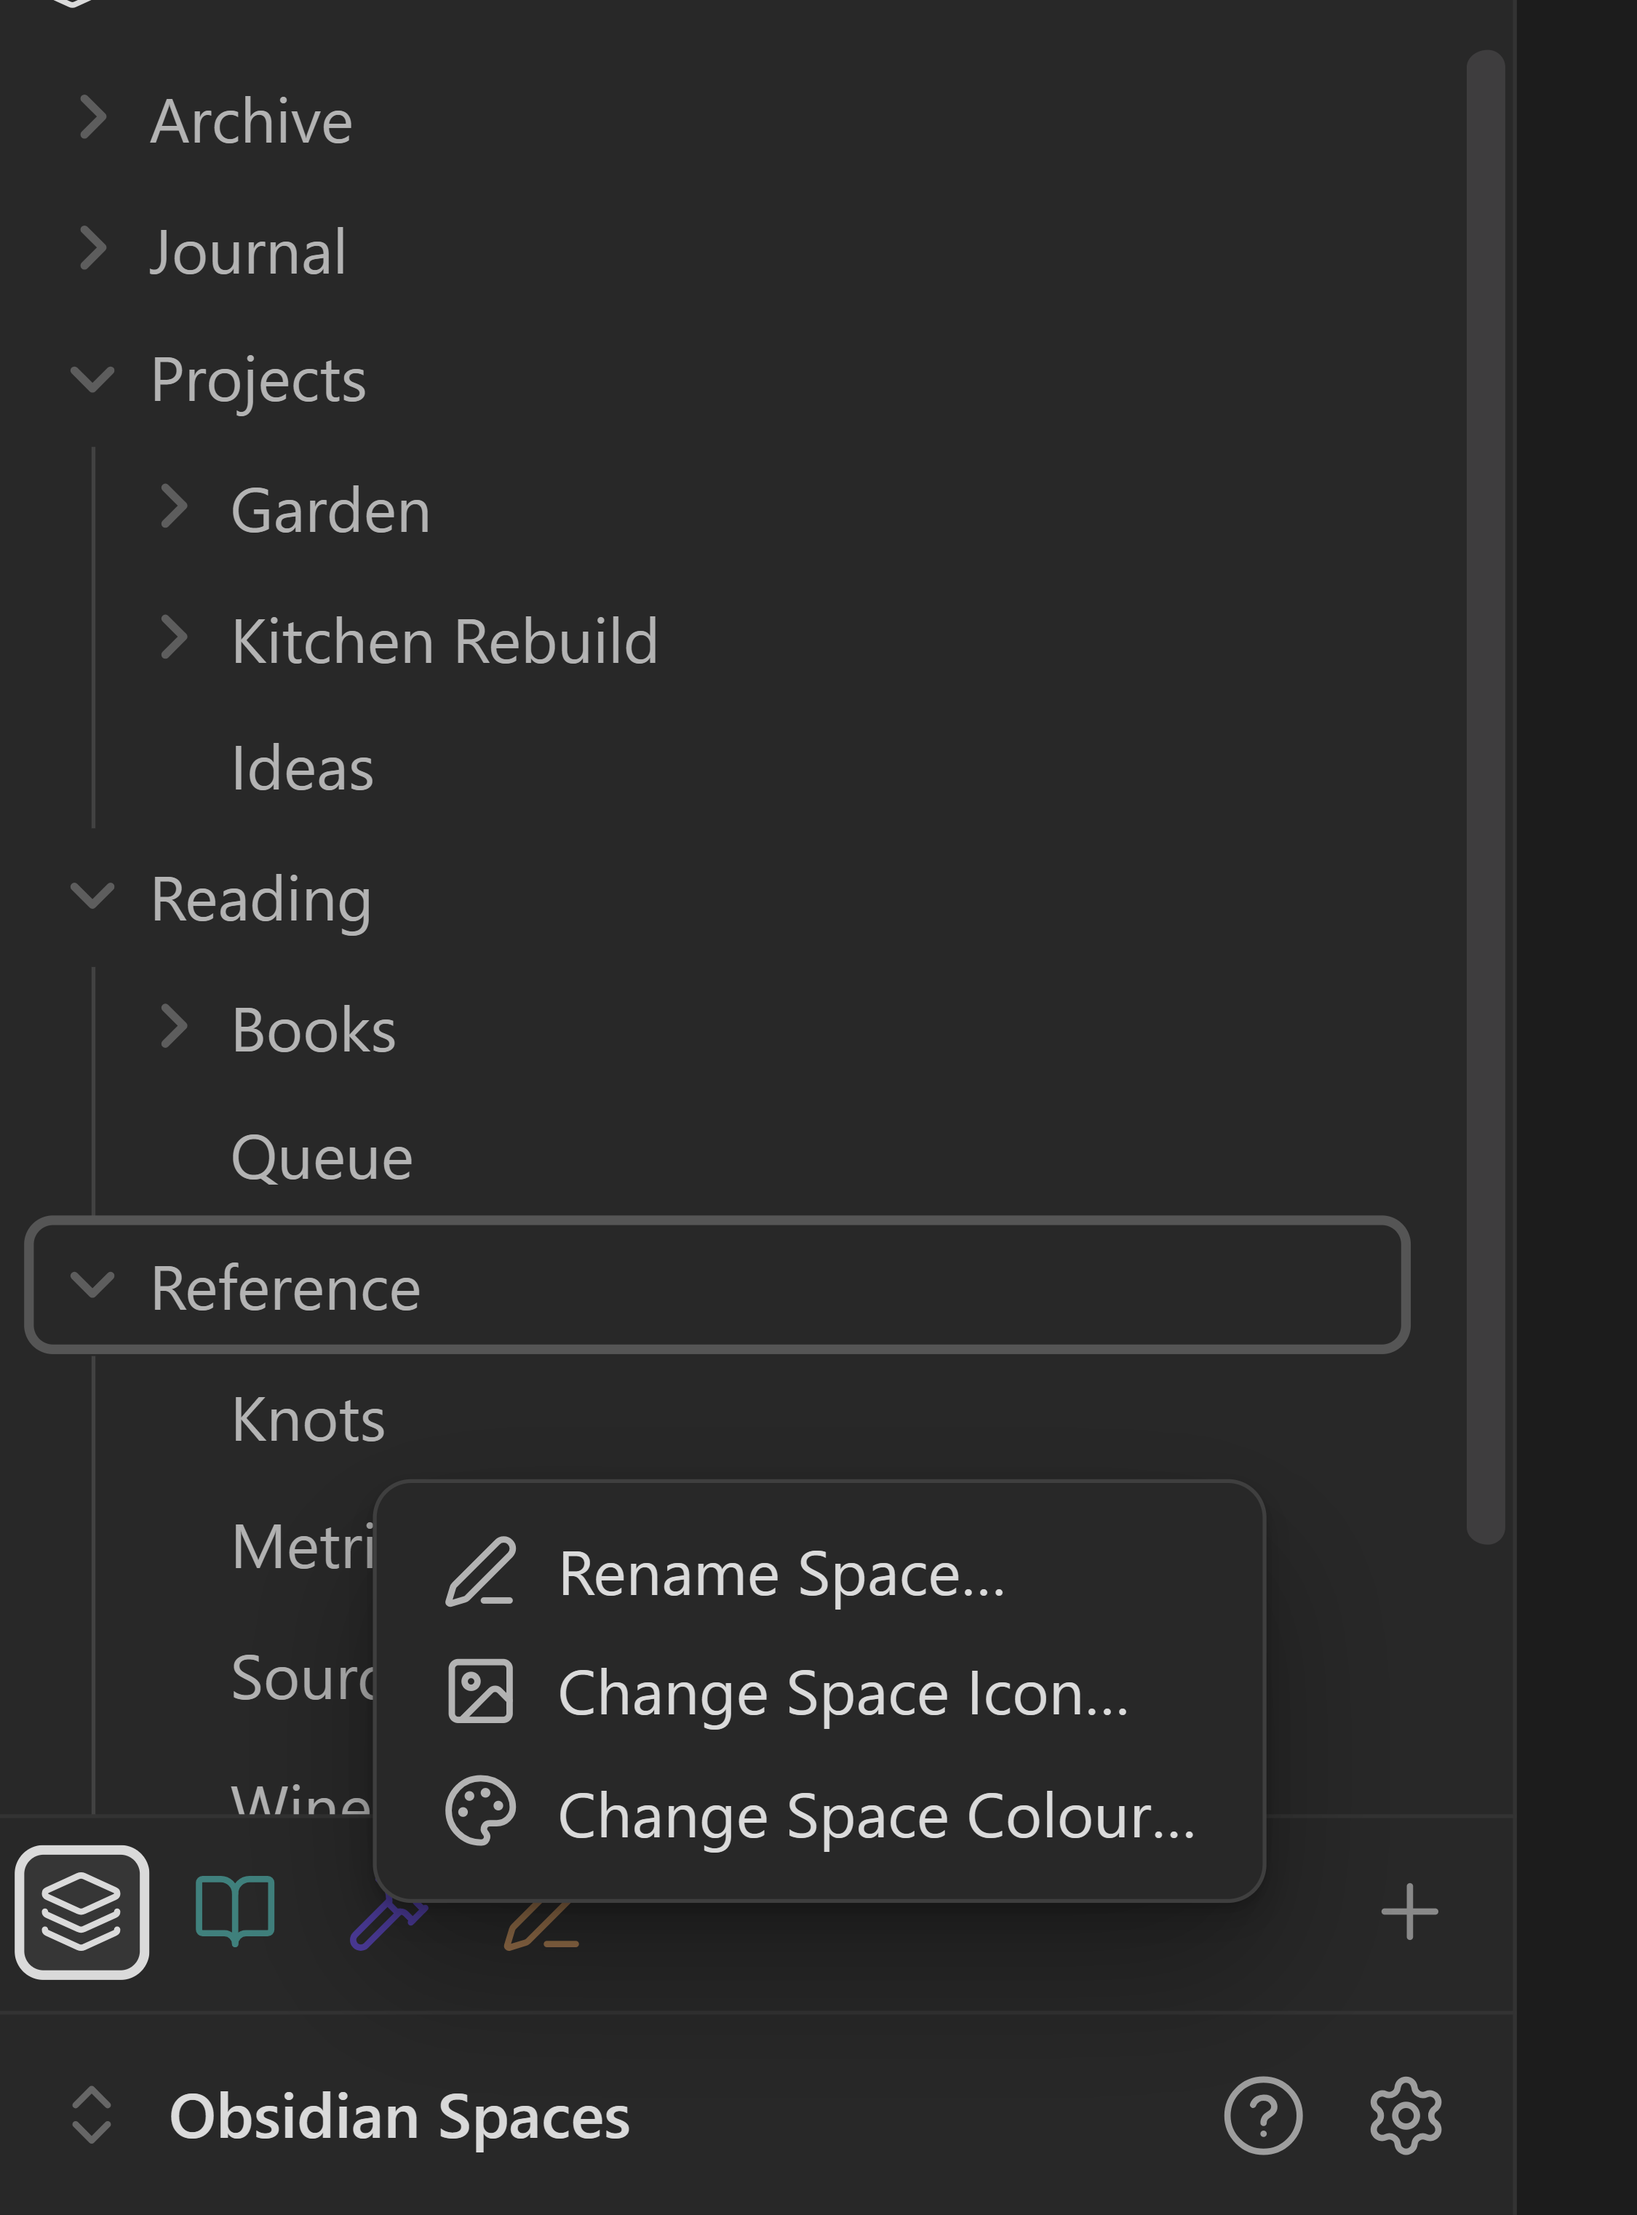
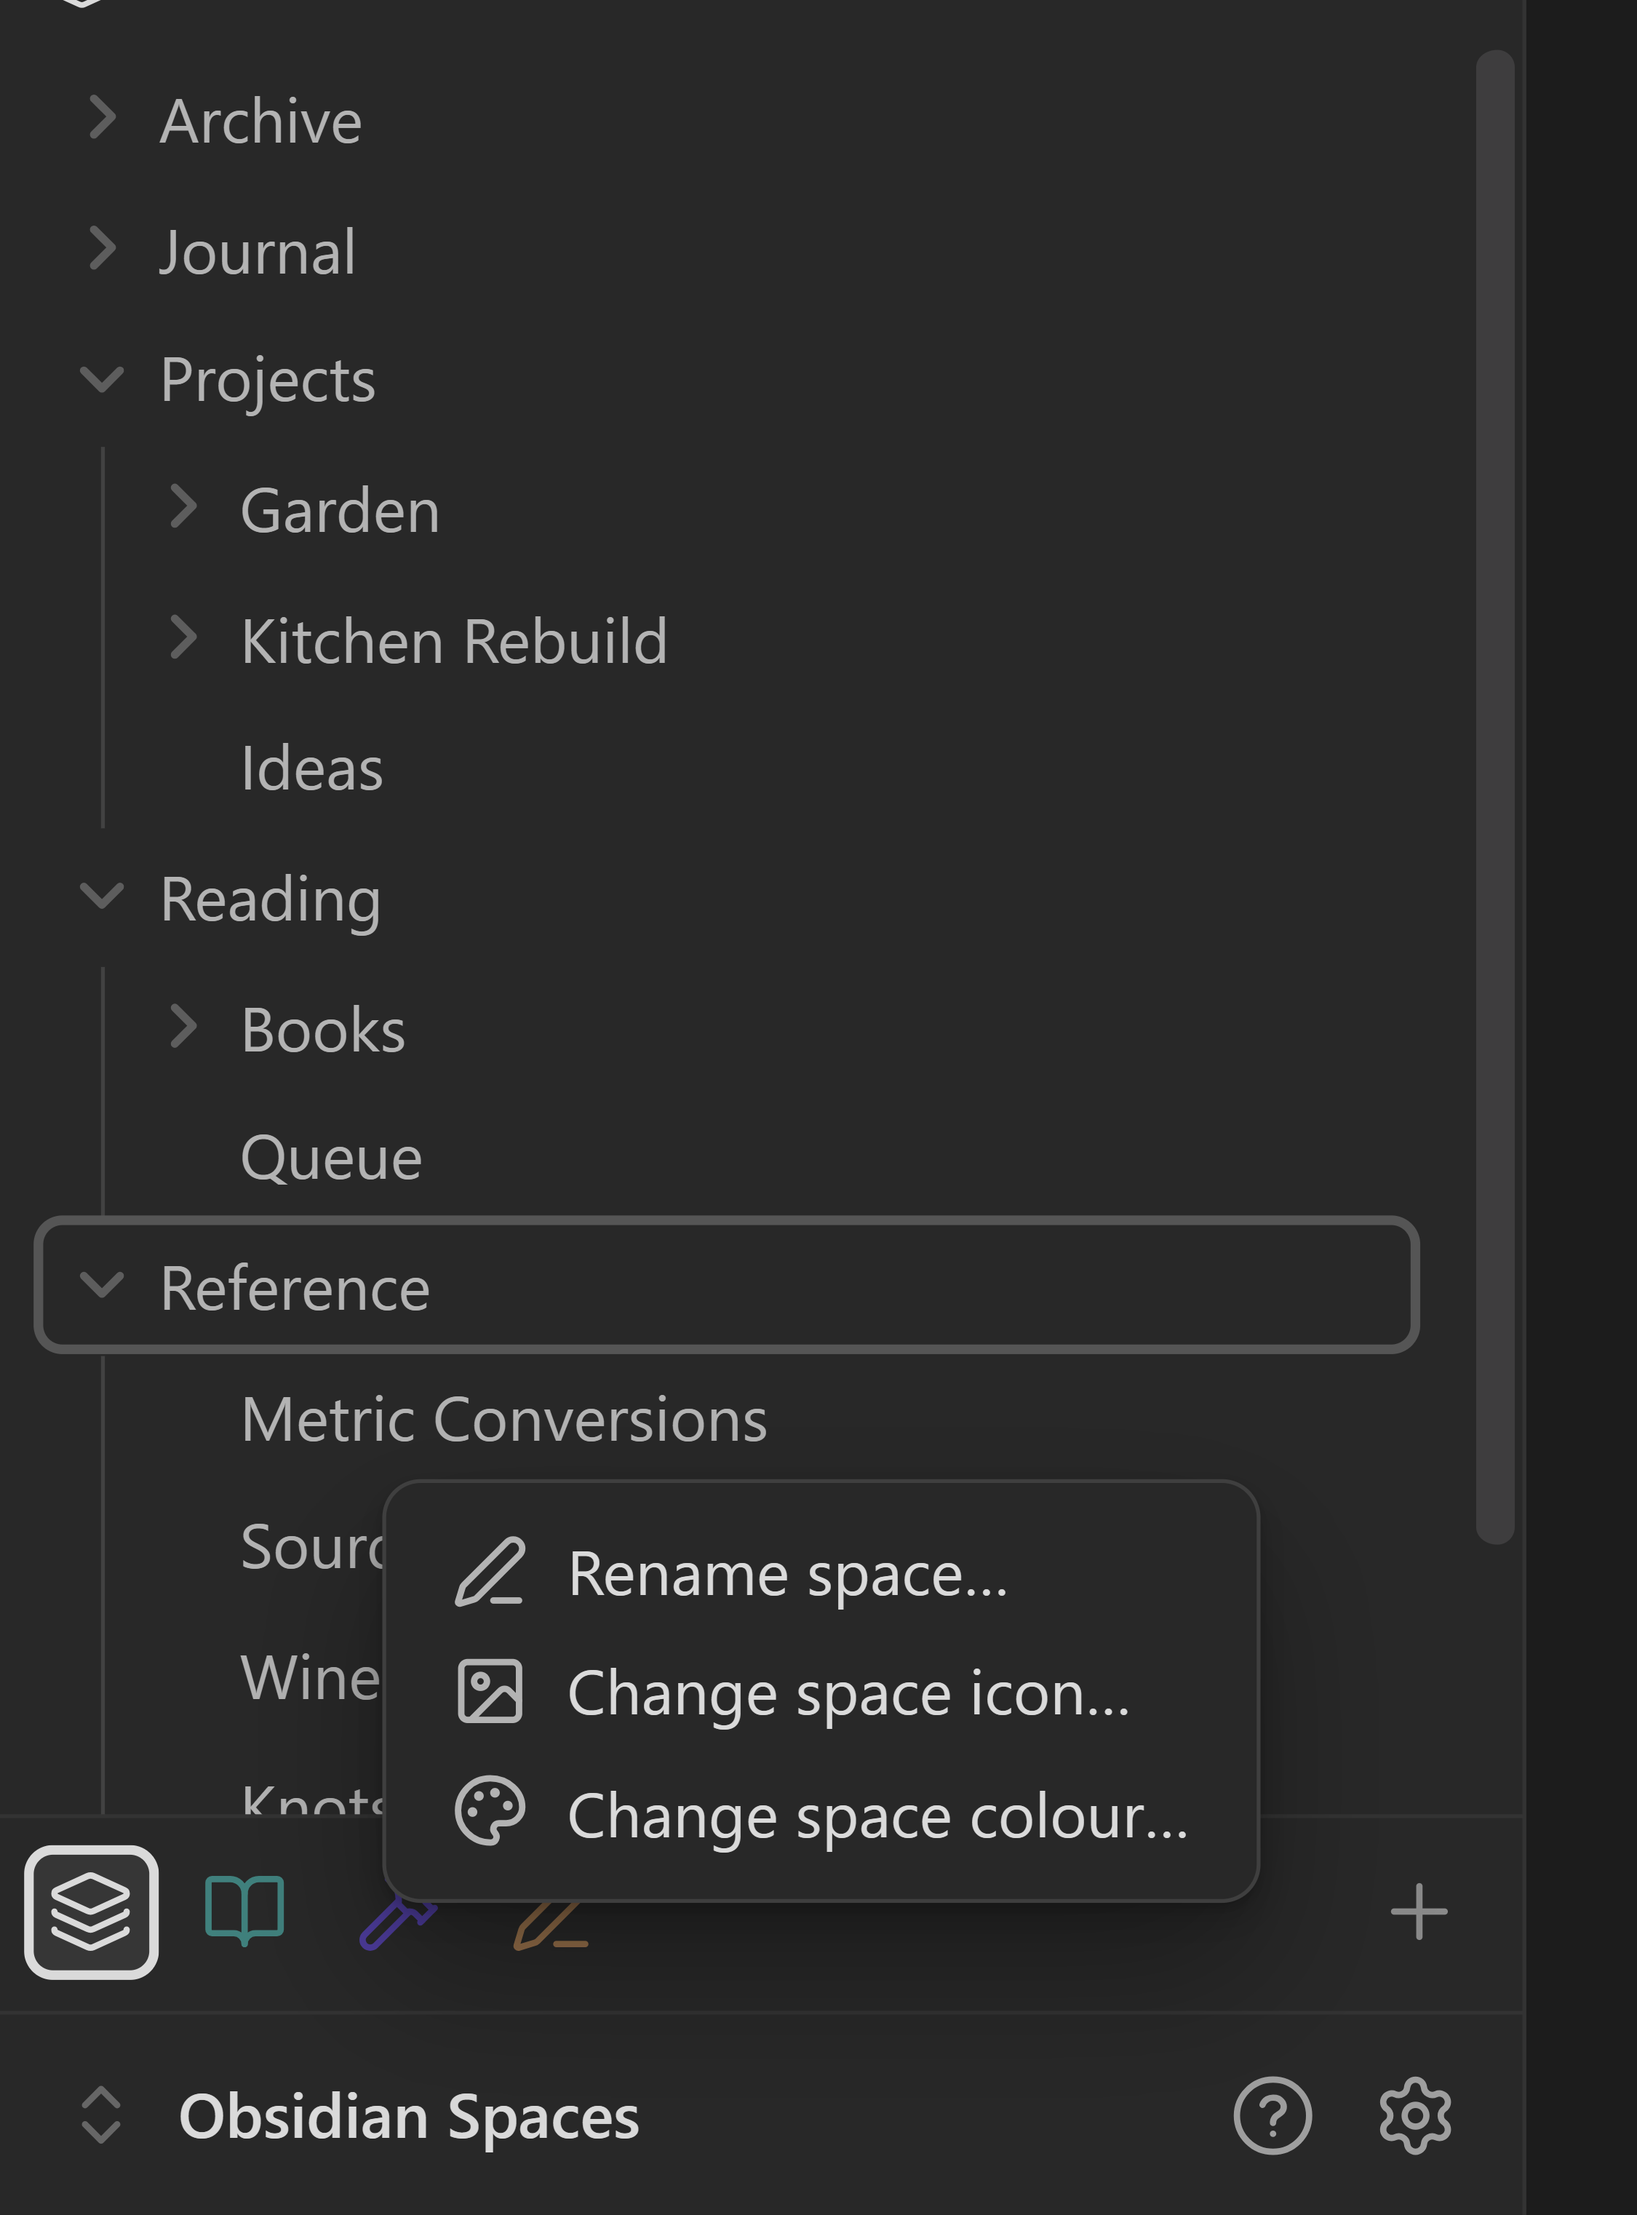
Follow Obsidian's developer policies and style guide
Menu and button labels are sentence case, the way the rest of Obsidian writes
them: "Rename space...", "Change space icon...", "Change space colour...", and
the "Folder pinned" mode in the create panel. The three README screenshots that
show those controls are retaken.

The settings tab no longer carries a support link. Obsidian's policies treat a
support prompt inside a plugin's own interface as something the README has to
disclose, and `fundingUrl` already does the same job the way Obsidian intends:
a Support link on the community-list entry, with nothing inside the plugin
asking for money. The renderer stays, because the decision is a URL.

The README's opening read "Obsidian `Spaces` supercharges a vault", which
scans as a first-party product name rather than a plugin for Obsidian. It now
names the plugin first. The requirements section says what actually stands
between Spaces and mobile: HTML5 drag events that never fire from touch, and a
desktop file explorer whose DOM mobile lays out differently.

Version 0.1.4: metadata, copy and labels only.

diff --git a/src/ui/SettingsTab.ts b/src/ui/SettingsTab.ts
@@ -28,15 +28,18 @@ import {
  * Ko-fi, Buy Me a Coffee, GitHub Sponsors or anything else; all of them are
  * just a URL, and the choice changes nothing here.
  *
- * When it is set, `manifest.json`'s `fundingUrl` must name the same address:
- * that is Obsidian's own mechanism, and it puts a Support link on the plugin's
- * entry in the community list without any code at all. `fundingUrl` takes
- * either one URL or a labelled set — this plugin uses the set (Ko-fi first,
- * GitHub Sponsors second), so this constant points at ONE of them, the primary
- * ask. `tests/manifest.test.ts` asserts it is one the manifest names, which is
- * the failure that actually matters: a settings link the listing never offers.
+ * Empty is what ships. Obsidian's developer policies treat a support prompt
+ * inside the plugin's own interface as something a README has to disclose, and
+ * `manifest.json`'s `fundingUrl` already does the same job the way Obsidian
+ * intends: a Support link on the community-list entry, no code, and nothing
+ * asking for money inside the settings tab. The renderer below stays because
+ * the decision is a URL, not a rewrite.
+ *
+ * Whoever sets it must name an address `fundingUrl` also names.
+ * `tests/manifest.test.ts` asserts exactly that, because the failure that
+ * matters is a settings link the listing never offers.
  */
-export const SUPPORT_URL = "https://ko-fi.com/psjdev";
+export const SUPPORT_URL = "";
 
 /**
  * Whether something outside spaces's own toggle is standing in the way of
@@ -280,8 +283,8 @@ export class SpacesSettingTab extends PluginSettingTab {
    * someone opens their settings. None of that buys anything a styled link
    * does not.
    *
-   * The README *does* carry a Ko-fi badge, and that is not a contradiction:
-   * it is an image on a web page GitHub already serves, loaded by a browser
+   * The README *does* carry support links, and that is not a contradiction:
+   * they are text on a web page GitHub already serves, read by a browser
    * nobody is trusting with their vault. The rule here is about what the
    * PLUGIN fetches, which is nothing — see `tests/noNetwork.test.ts`.
    */

diff --git a/src/ui/SwitcherView.ts b/src/ui/SwitcherView.ts
@@ -382,7 +382,7 @@ export class SwitcherView {
         menu.addItem((mi) =>
           mi
             .setIcon("pencil")
-            .setTitle("Rename Space…")
+            .setTitle("Rename space…")
             .onClick(() => {
               this.show(
                 openRenamePopover({
@@ -396,7 +396,7 @@ export class SwitcherView {
         menu.addItem((mi) =>
           mi
             .setIcon("image")
-            .setTitle("Change Space Icon…")
+            .setTitle("Change space icon…")
             .onClick(() => {
               // Anchored to the switcher item itself, so the popover opens
               // where the space lives rather than in the middle of the app.
@@ -410,7 +410,7 @@ export class SwitcherView {
         menu.addItem((mi) =>
           mi
             .setIcon("palette")
-            .setTitle("Change Space Colour…")
+            .setTitle("Change space colour…")
             .onClick(() => {
               this.show(
                 openColorPicker({

diff --git a/src/ui/CreateSpacePanel.ts b/src/ui/CreateSpacePanel.ts
@@ -785,7 +785,7 @@ export class CreateSpacePanel {
     };
 
     modes.appendChild(modeBtn(false, "Curated", "list-plus"));
-    modes.appendChild(modeBtn(true, "Folder Pinned", "folder"));
+    modes.appendChild(modeBtn(true, "Folder pinned", "folder"));
     el.appendChild(modes);
 
     if (this.itemsOpen) {
@@ -879,7 +879,7 @@ export class CreateSpacePanel {
       if (text instanceof HTMLElement) text.textContent = this.modeSummary(folderMode, label);
     };
     set("mode-curate", false, "Curated");
-    set("mode-folder", true, "Folder Pinned");
+    set("mode-folder", true, "Folder pinned");
   }
 
   /**

diff --git a/src/ui/createSpaceForm.ts b/src/ui/createSpaceForm.ts
@@ -197,7 +197,7 @@ export function validateForm(s: CreateFormState): FormFault | null {
     // click on a button they have to be told is still on.
     return {
       field: "root",
-      message: "select a folder to pin, or deselect 'Folder Pinned'.",
+      message: "select a folder to pin, or deselect 'Folder pinned'.",
     };
   }
   return null;

diff --git a/README.md b/README.md
@@ -4,11 +4,11 @@
 
 > **TL;DR**
 >
-> - Adds mini-workspace-like views to your vault
+> - Switch between curated views of your vault's folders and notes
 > - Reorder notes and folders by dragging
 > - Lightweight: no runtime dependencies, no network requests
 
-Obsidian `Spaces` supercharges a vault by allowing you to create contextually relevant groups of content as a *space*. A *space* is similar in spirit to a Notion teamspace: a view of your vault scoped to one piece of work, with its own contents and its own tabs. `Spaces` changes what and how you see your vault, not what your vault contains.
+`Spaces` is a plugin for Obsidian that supercharges a vault by letting you gather contextually relevant content into a *space*. A *space* is similar in spirit to a Notion teamspace: a view of your vault scoped to one piece of work, with its own contents and its own tabs. It changes what and how you see your vault, not what your vault contains.
 
 Spaces are a lens, not a reorganisation. A note or folder lives at one real path, and can belong to zero or more spaces. Nothing here renames, moves or deletes anything in your vault.
 
@@ -53,7 +53,7 @@ The two overlap on tabs, so Spaces defers. If the core Workspaces plugin is enab
 - **Obsidian 1.13.0 or later**
 - **Desktop only.** The manifest declares `isDesktopOnly: true`, so Obsidian does not offer the plugin on mobile
 
-Mobile support is on the roadmap.
+Mobile support is on the roadmap. Two things stand in the way today: reordering rides Obsidian's own HTML5 drag events, which never fire from a touch gesture, and the filtering works against the desktop file explorer's DOM, which mobile lays out differently. Both are solvable, neither is verified on a phone yet, and the manifest stays honest about that until they are.
 
 ## Installing
 
@@ -75,13 +75,13 @@ If your vault uses a custom config folder, substitute it for `.obsidian`.
 3. Type a name. Optionally click the dashed square to the left of the name to choose an icon, and **Choose icon colour** to set its colour.
 4. Choose what goes in it:
    - **Curated** opens a searchable tree of your vault. Click any notes and folders to include them.
-   - **Folder Pinned** shows folders only; pick exactly one to pin the space to.
+   - **Folder pinned** shows folders only; pick exactly one to pin the space to.
    - Both are optional. A space with just a name is a valid empty curated space.
 5. Click **Create space**. Spaces switches you into it, and the file tree narrows to match.
 
 | 1. Name it | 2. Curate it | 3. Pin it to a folder |
 |---|---|---|
-| <img src="docs/media/create-name.png" width="240" alt="The creation form with the name Weekend typed and a teal tent chosen as the space's icon."> | <img src="docs/media/create-curated.png" width="240" alt="The same form with Curated selected, showing a searchable tree of the vault with a folder and three notes picked out."> | <img src="docs/media/create-folder.png" width="240" alt="The same form with Folder Pinned selected, showing folders only and exactly one of them chosen."> |
+| <img src="docs/media/create-name.png" width="240" alt="The creation form with the name Weekend typed and a teal tent chosen as the space's icon."> | <img src="docs/media/create-curated.png" width="240" alt="The same form with Curated selected, showing a searchable tree of the vault with a folder and three notes picked out."> | <img src="docs/media/create-folder.png" width="240" alt="The same form with Folder pinned selected, showing folders only and exactly one of them chosen."> |
 
 Click **All** to leave the space and see the whole vault again.
 
@@ -93,11 +93,11 @@ Right-click a row in the file tree:
 - Inside a space, **Remove from *space*** removes a member. A row that is in the space because you added its parent folder shows a disabled entry naming the folder it came from. Remove the folder, or use **Stop showing here** to dismiss a visitor.
 - On a folder in **All**, **Create folder pinned space** builds a space pinned to it in one step.
 
-Right-click a space's icon in the switcher strip for **Rename Space…**, **Change Space Icon…**, **Change Space Colour…**, and **Restore saved ordering**.
+Right-click a space's icon in the switcher strip for **Rename space…**, **Change space icon…**, **Change space colour…**, and **Restore saved ordering**.
 
 | A row in the file tree | A space's icon in the strip |
 |---|---|
-| <img src="docs/media/menu-add-to-space.png" width="360" alt="Obsidian's own folder menu with two added entries: Add to space, opened to show the spaces that can take this folder, and Create folder pinned space."> | <img src="docs/media/menu-space-icon.png" width="360" alt="The menu on a space icon: Rename Space, Change Space Icon and Change Space Colour."> |
+| <img src="docs/media/menu-add-to-space.png" width="360" alt="Obsidian's own folder menu with two added entries: Add to space, opened to show the spaces that can take this folder, and Create folder pinned space."> | <img src="docs/media/menu-space-icon.png" width="360" alt="The menu on a space icon: Rename space, Change space icon and Change space colour."> |
 
 Only spaces that can take the row are offered: a folder pinned space is a window onto its own folder, so it never appears in **Add to space**.
 

diff --git a/CHANGELOG.md b/CHANGELOG.md
@@ -1,5 +1,22 @@
 # Changelog
 
+## 0.1.4 — 2026-09-15
+
+Brings the plugin in line with Obsidian's developer policies and UI style guide.
+
+- Menu and button labels are sentence case, matching the rest of Obsidian:
+  "Rename space…", "Change space icon…", "Change space colour…", and the
+  "Folder pinned" mode in the create panel.
+- The settings tab no longer carries a support link. Funding is reachable the
+  way Obsidian intends, from the plugin's entry in the community list, and
+  nothing inside the plugin asks for money.
+
+The README's opening no longer reads as though "Obsidian Spaces" were a
+first-party product, and the requirements section now says what actually stands
+between Spaces and mobile.
+
+No behaviour change.
+
 ## 0.1.3 — 2026-09-15
 
 The author field now reads as a name rather than a username. It is shown as
